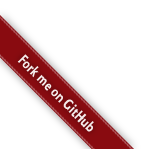
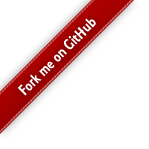
change fork me iamge define a position for it define an alternatve texte

diff --git a/public/css/main.css b/public/css/main.css
@@ -47,3 +47,9 @@ body {
 .button:hover {
     color:white;
 }
+.forkme {
+	position: absolute;
+	top: 0;
+	left: 0;
+	border: 0;
+}
